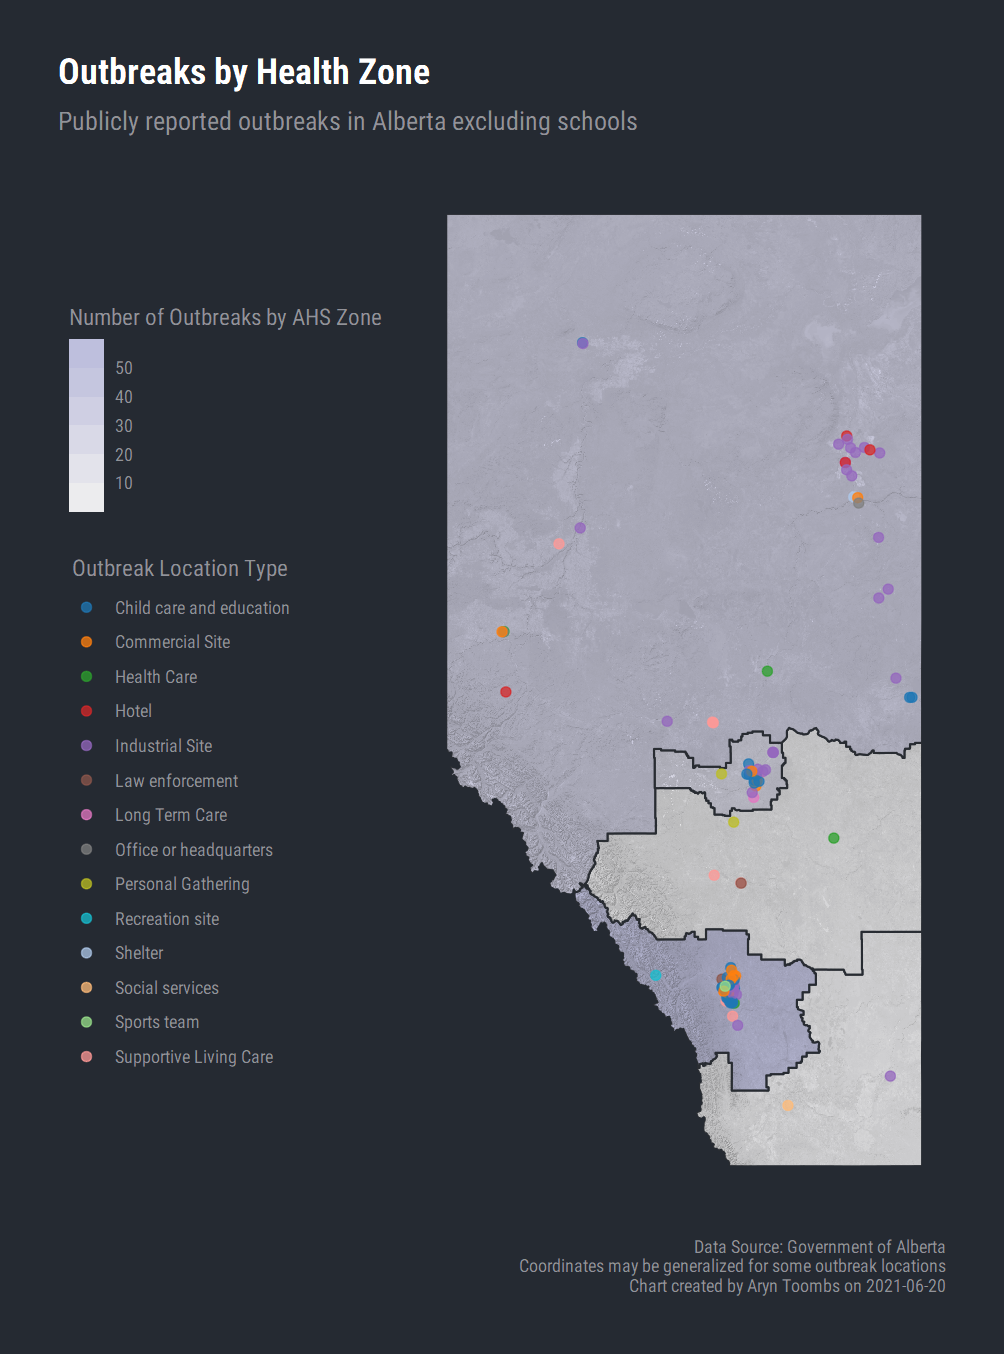
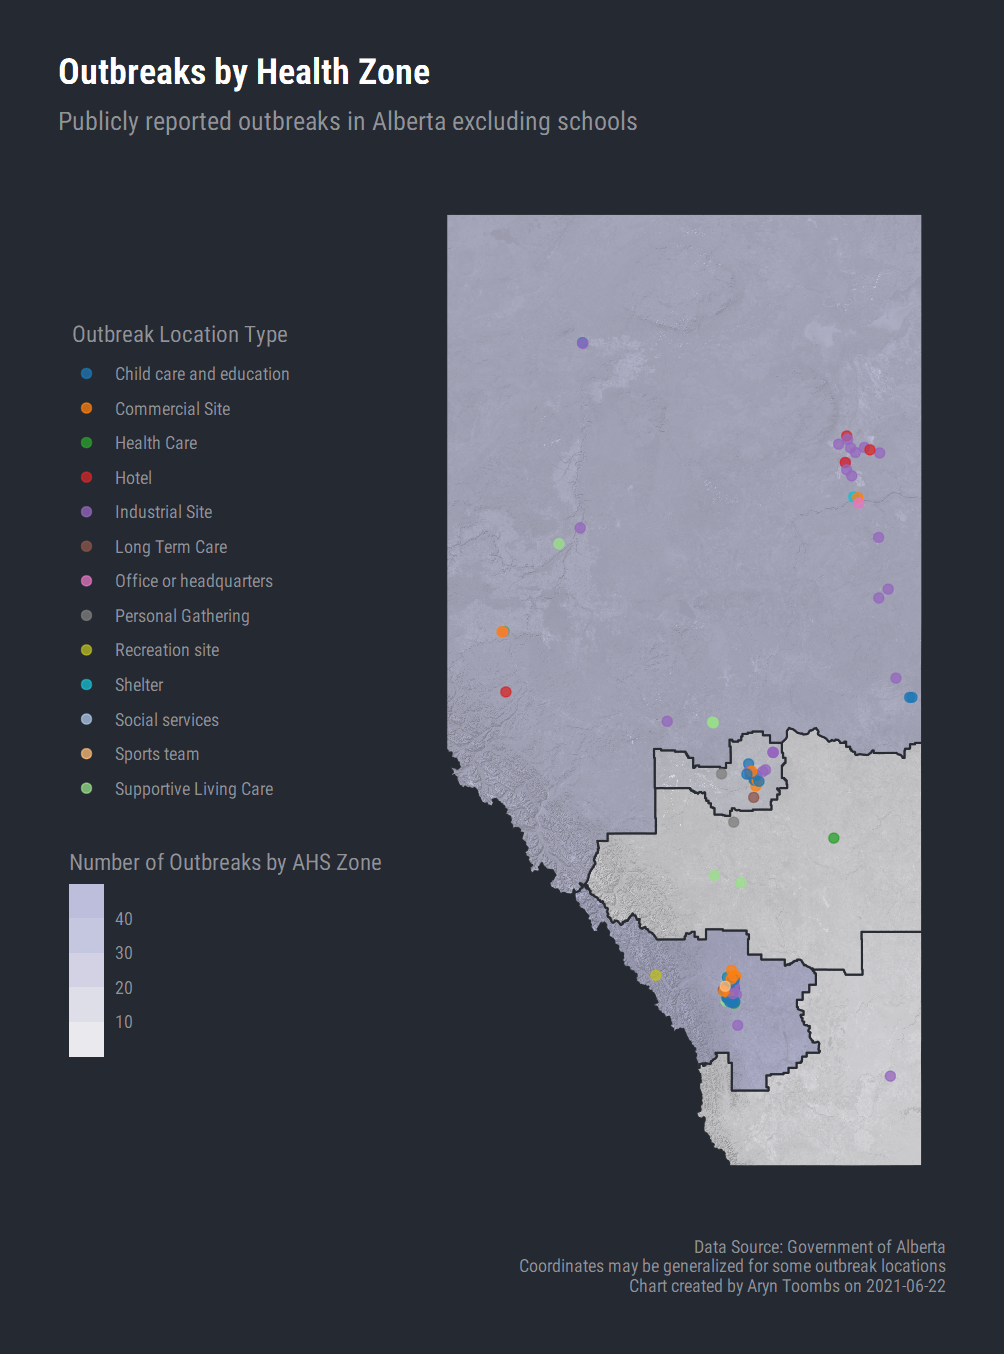
web

diff --git a/outbreaks/index.html b/outbreaks/index.html
@@ -162,7 +162,7 @@
       Calgary Zone
     </div>
     <div class="row box-bottom justify-content-center">
-      <h4>54</h4>
+      <h4>42</h4>
     </div>
   </div>
   <div class="col-sm ml-1 mr-1">
@@ -170,7 +170,7 @@
       Edmonton Zone
     </div>
     <div class="row box-bottom justify-content-center">
-      <h4>25</h4>
+      <h4>18</h4>
     </div>
   </div>
   <div class="col-sm ml-1 mr-1">
@@ -178,7 +178,7 @@
       South Zone
     </div>
     <div class="row box-bottom justify-content-center">
-      <h4>2</h4>
+      <h4>1</h4>
     </div>
   </div>
   <div class="col-sm ml-1 mr-1">
@@ -186,7 +186,7 @@
       Central Zone
     </div>
     <div class="row box-bottom justify-content-center">
-      <h4>6</h4>
+      <h4>4</h4>
     </div>
   </div>
   <div class="col-sm ml-1 mr-1">
@@ -194,12 +194,12 @@
       North Zone
     </div>
     <div class="row box-bottom justify-content-center">
-      <h4>33</h4>
+      <h4>32</h4>
     </div>
   </div>
 </div>
 <div class="row mb-3 pr-1 pt-1 justify-content-end">
-  <p class="m-1"><i class="bi bi-info-circle-fill"></i> Covid-19 outbreaks (not including schools, see below) current as of Sun, Jun 20, 2021. AHS non-school outbreak data updated on Tuesdays and Fridays.</p>
+  <p class="m-1"><i class="bi bi-info-circle-fill"></i> Covid-19 outbreaks (not including schools, see below) current as of Tue, Jun 22, 2021. AHS non-school outbreak data updated on Tuesdays and Fridays.</p>
 </div>
   <div class="row pl-3">
     <h4 class="body-display">Outbreak Charts</h4>
